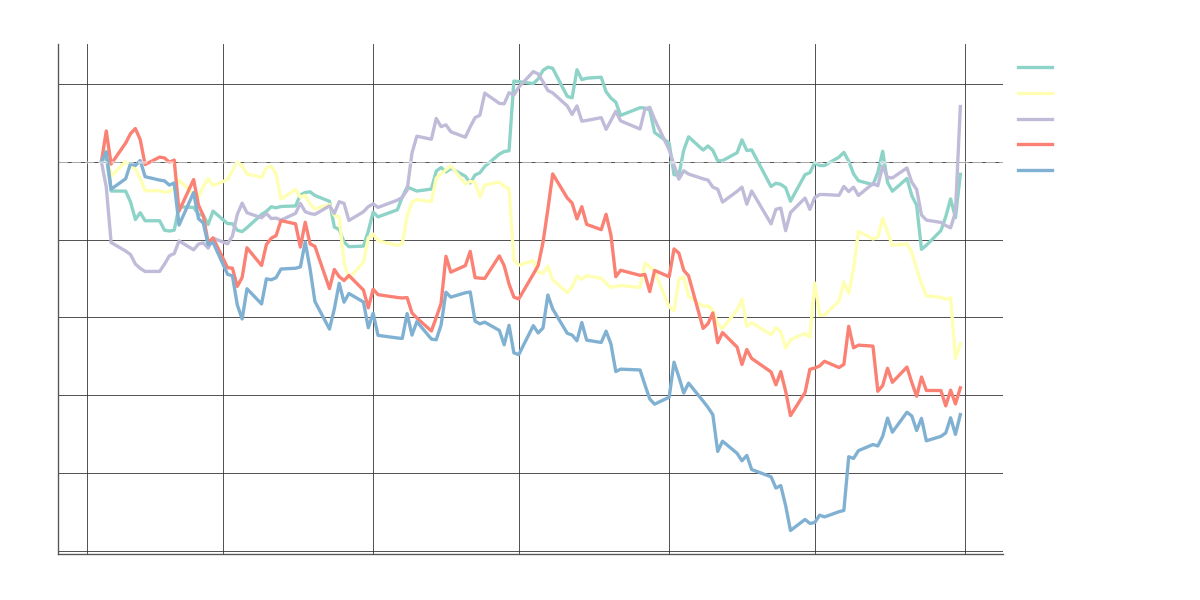
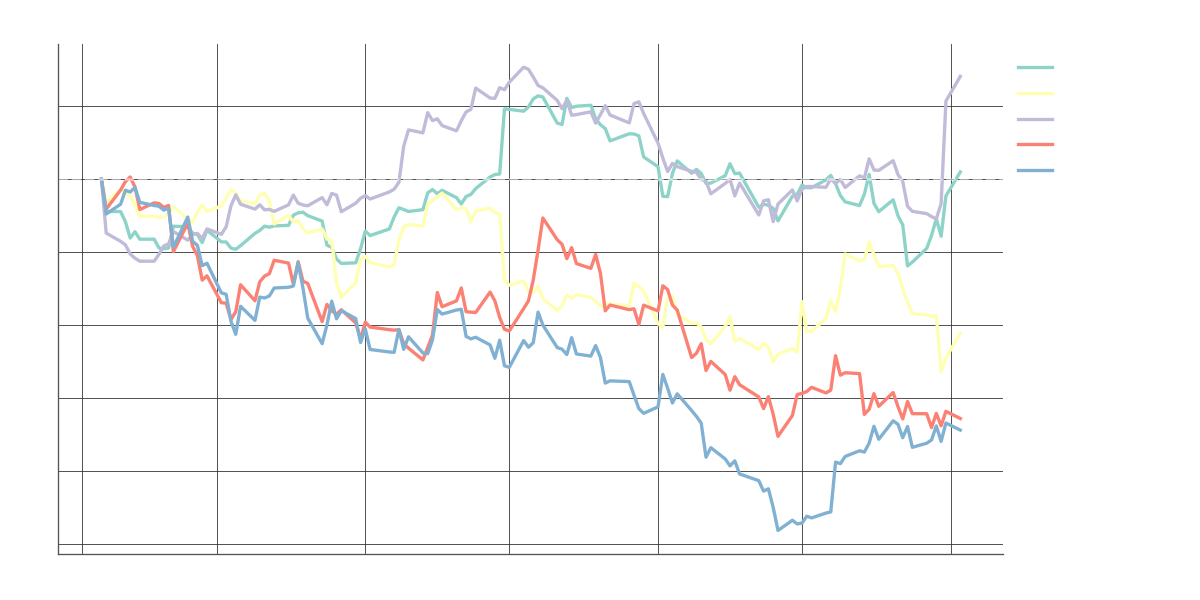
Fix RS chart generation python path and update ETF strategy YTD label to 2026

diff --git a/frontend/src/components/ETFStrategyView.tsx b/frontend/src/components/ETFStrategyView.tsx
@@ -31,7 +31,7 @@ export default function ETFStrategyView() {
   const [data, setData] = useState<any[]>([]);
   const [simData, setSimData] = useState<any>(null);
   const [loading, setLoading] = useState(true);
-  const [period, setPeriod] = useState<string>('YTD(25.01~)');
+  const [period, setPeriod] = useState<string>('YTD(26.01~)');
   const [criteria, setCriteria] = useState<string>('sharpe');
 
   useEffect(() => {
@@ -98,8 +98,8 @@ export default function ETFStrategyView() {
     let startDate = '1900-01-01';
     const today = new Date();
     
-    if (period === 'YTD(25.01~)') {
-      startDate = '2025-01-02';
+    if (period === 'YTD(26.01~)') {
+      startDate = '2026-01-02';
     } else if (period === '3개월') {
       const d = new Date(today);
       d.setMonth(d.getMonth() - 3);
@@ -173,8 +173,8 @@ export default function ETFStrategyView() {
     let startDate = '1900-01-01';
     const today = new Date();
     
-    if (period === 'YTD(25.01~)') {
-      startDate = '2025-01-02';
+    if (period === 'YTD(26.01~)') {
+      startDate = '2026-01-02';
     } else if (period === '3개월') {
       const d = new Date(today);
       d.setMonth(d.getMonth() - 3);
@@ -250,7 +250,7 @@ export default function ETFStrategyView() {
     return null;
   };
 
-  const periodOptions = ['YTD(25.01~)', '3개월', '6개월', '12개월'];
+  const periodOptions = ['YTD(26.01~)', '3개월', '6개월', '12개월'];
 
   return (
     <div className="p-4 h-full overflow-y-auto space-y-6">

diff --git a/backend/main.py b/backend/main.py
@@ -47,9 +47,10 @@ def start_scheduler():
     
     # 경쟁업체 차트 주기적 업데이트 (매일 아침 7시 30분)
     import subprocess
+    import sys
     def update_rs_charts():
         try:
-            subprocess.run(["python", "generate_rs_charts.py"], cwd=os.path.dirname(os.path.abspath(__file__)))
+            subprocess.run([sys.executable, "generate_rs_charts.py"], cwd=os.path.dirname(os.path.abspath(__file__)))
         except Exception as e:
             print("RS Charts update error:", e)
             
@@ -887,7 +888,19 @@ def get_analyst_report(ticker: str):
         opinion = "Hold"
         opinion_text = "보유"
         
+    dart_summary = ""
+    if is_krx:
+        try:
+            import dart_analyzer
+            dart_summary = dart_analyzer.analyze_dart_with_ai(stock.get("name", ticker), pure_ticker)
+        except Exception as e:
+            print(f"DART analysis error: {e}")
+            
     business_outlook = f"동사는 최근 매크로 환경 변화에도 불구하고 안정적인 이익 창출력을 유지할 것으로 전망됩니다. 특히 핵심 사업 부문에서의 시장 지배력이 유지되고 있으며, 신규 사업 부문에서의 성장 모멘텀이 기대됩니다."
+    
+    if dart_summary:
+        business_outlook = f"[DART 최근 주요 공시 AI 분석]\n{dart_summary}\n\n[기본 영업 전망]\n{business_outlook}"
+
     investment_outlook = f"수익성 개선 추세가 이어지며, 잉여현금흐름(FCF) 증가에 따른 주주환원 확대 가능성이 존재합니다. 글로벌 경쟁사 대비 밸류에이션 매력도 존재하며, 장기적인 관점에서의 비중 확대를 권고합니다."
     price_outlook = f"본 리포트에서는 잉여현금흐름을 할인한 DCF 모델(가치: {int(target_price_dcf):,}원)과 BPS 및 미래 초과이익을 고려한 RIM 모델(가치: {int(target_price_rim):,}원)을 복합적으로 고려하여 목표가 {int(target_price):,}원을 제시합니다. 현재 주가({int(curr_price):,}원) 대비 매력적인 구간으로 판단됩니다."
 
